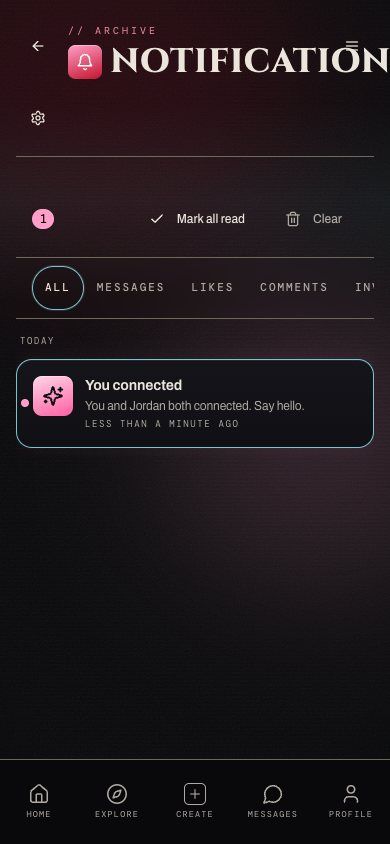
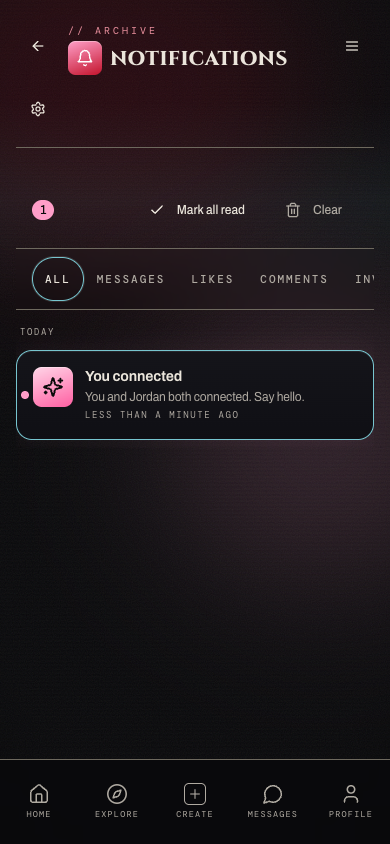
fix: clear signup retry errors and fit phone notification headers

diff --git a/src/pages/Onboarding.tsx b/src/pages/Onboarding.tsx
@@ -53,6 +53,7 @@ const Onboarding = () => {
   }, [avatarFile]);
   const [initialized, setInitialized] = useState(false);
   const [saving, setSaving] = useState(false);
+  const saveErrorToast = useRef<{ dismiss: () => void } | null>(null);
   const [data, setData] = useState<OnboardingData>({
     displayName: '',
     memberOf: '',
@@ -127,6 +128,8 @@ const Onboarding = () => {
 
   const handleComplete = async () => {
     if (!user || saving) return;
+    saveErrorToast.current?.dismiss();
+    saveErrorToast.current = null;
     setSaving(true);
 
     // Final validation - name is required
@@ -241,7 +244,7 @@ const Onboarding = () => {
       navigate(takeEventReturn() || '/pending', { replace: true });
     } catch (error) {
       console.error('Error saving onboarding data:', error);
-      toast({
+      saveErrorToast.current = toast({
         title: 'Error saving data',
         description: 'Please try again.',
         variant: 'destructive'

diff --git a/src/components/layout/PageHeader.tsx b/src/components/layout/PageHeader.tsx
@@ -46,7 +46,7 @@ export const PageHeader = ({
                 {icon}
               </span>
             )}
-            <h1 className="ether-title text-[34px] leading-tight">{title}</h1>
+            <h1 className="ether-title min-w-0 break-words text-xl leading-tight [overflow-wrap:anywhere] sm:text-[34px]">{title}</h1>
           </div>
         </div>
         {showMore && <MoreMenuButton />}

diff --git a/src/pages/Notifications.tsx b/src/pages/Notifications.tsx
@@ -18,7 +18,7 @@ const Notifications: React.FC = () => {
           actions={
             <Sheet>
               <SheetTrigger asChild>
-                <Button variant="ghost" size="icon">
+                <Button variant="ghost" size="icon" aria-label="Notification settings">
                   <Settings className="h-5 w-5" />
                 </Button>
               </SheetTrigger>

diff --git a/docs/release-completion/status.md b/docs/release-completion/status.md
@@ -48,5 +48,7 @@ Protected local snapshots are under `/tmp/lcove-staging-before-20261114.json` an
 
 - Typecheck; lint (0 errors, 25 existing warnings); spellcheck; staging build passed.
 - Unit: 649 passed. Discovery/trip database: 66. Music: 17. Invites: 41. Creative bridge: 129. Pending-access database: 28. Webhook fixtures passed.
+- Production full-schema rollback trial passed for all nine existing accounts (eight approved members, one incomplete applicant).
+- Phone notification heading now fits without clipping; signup retry dismisses its prior error toast.
 - Screenshots in `screenshots/` use synthetic users; they are browser captures, not proof of native iPhone gestures, keyboard or push delivery.
 - Native compile archive: `/tmp/lcove-release-completion-staging.xcarchive` (unsigned; not installable/uploadable as-is).
